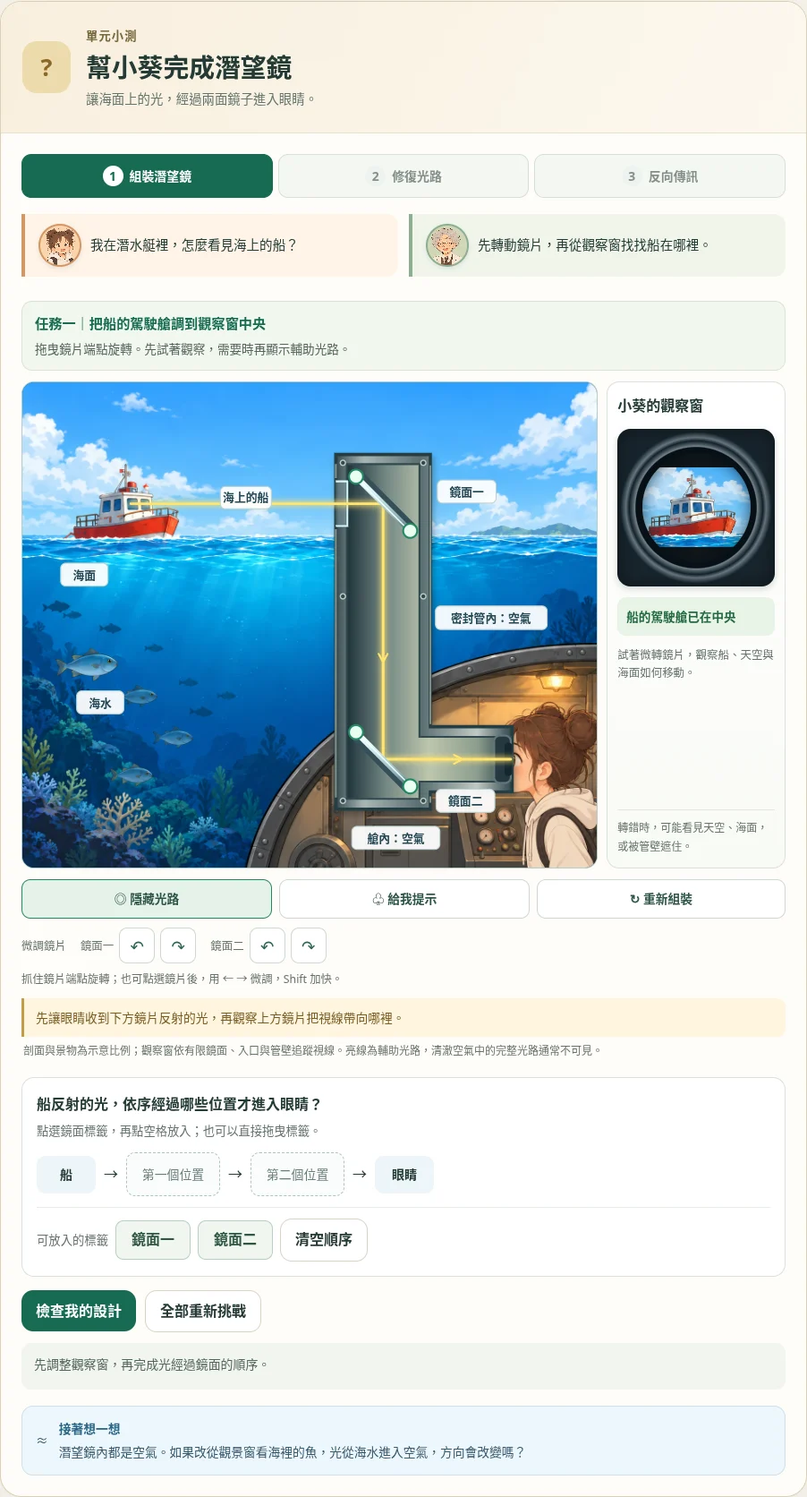
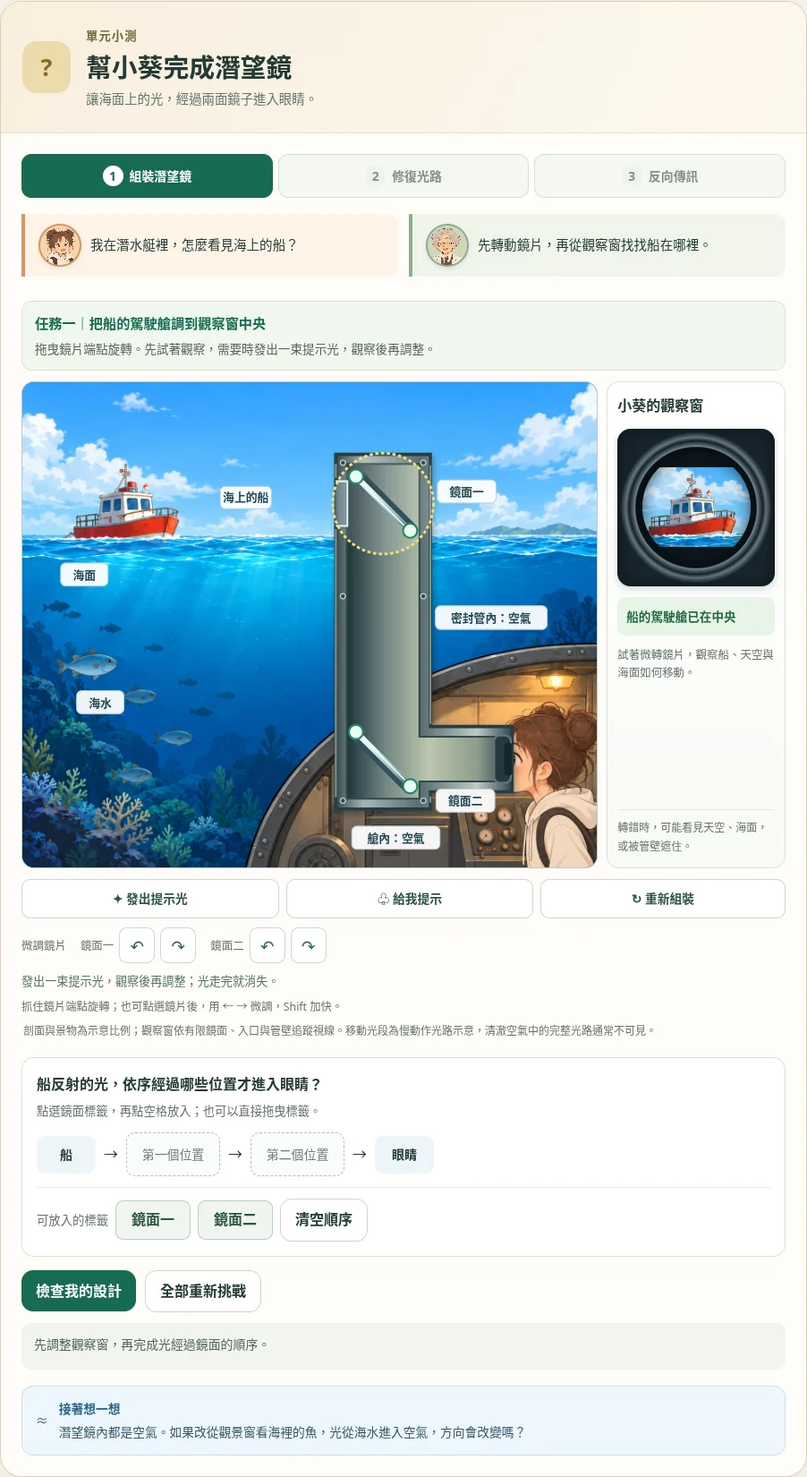
Replace continuous periscope hints with a single moving light pulse

diff --git a/units/1/parts/1.2/assets/periscope.js b/units/1/parts/1.2/assets/periscope.js
@@ -1,12 +1,16 @@
 import {OPTICS, mirror, viewRay, exteriorSample, observe, traceRay, returnSignal} from './periscope-optics.mjs';
+import {pathLength,pulseSegment} from './periscope-pulse.mjs';
 
 const root=document.querySelector('#unit-quiz');
 if(root) {
   const $=s=>root.querySelector(s), $$=s=>[...root.querySelectorAll(s)];
   const svg=$('#periscope-scene'), canvas=$('#periscope-view'), ctx=canvas.getContext('2d',{alpha:false});
   const groups=[$('#periscope-mirror-0'),$('#periscope-mirror-1')];
-  const state={stage:0,angles:[38,51],done:[false,false,false],order:[null,null],chip:null,diagnosis:null,prediction:null,path:false,hint:0,signal:false,verified:false,saved:[45,45]};
+  const state={stage:0,angles:[38,51],done:[false,false,false],order:[null,null],chip:null,diagnosis:null,prediction:null,hint:0,signal:false,verified:false,saved:[45,45]};
   let scenePixels=null, lastViewKey='', pending=0, dragging=null;
+  const reducedMotion=matchMedia('(prefers-reduced-motion: reduce)');
+  let pulse=null,pulseFrame=0,pulseEndTimer=0,pulseUnlockTimer=0,nextPulseAt=0,pulseCount=0;
+  const TRAVEL_MS=1400,HOLD_MS=300,FADE_MS=250,REST_MS=1050;
   const sceneImage=new Image();
   sceneImage.src=new URL('periscope/submarine-scene.webp?v=2',import.meta.url).href;
   sceneImage.onload=()=>{
@@ -52,7 +56,7 @@ if(root) {
       g.setAttribute('aria-valuenow',state.angles[i].toFixed(1));g.setAttribute('aria-valuetext',`鏡面方向 ${state.angles[i].toFixed(1)} 度，可用方向鍵微調`);
       g.setAttribute('aria-disabled',String(state.stage===2));g.setAttribute('tabindex',state.stage===2?'-1':'0');
     });
-    const ray=forwardRay(), marker=$('#periscope-block-marker');
+    const marker=$('#periscope-block-marker');
     marker.hidden=true;marker.setAttribute('hidden','');
     $('#periscope-normal').replaceChildren();
     $('#periscope-signal-source').toggleAttribute('hidden',state.stage!==2);
@@ -63,19 +67,71 @@ if(root) {
       else $('#periscope-light').replaceChildren();
     } else {
       $('#periscope-recorded').replaceChildren();
-      if(state.path) {
-        drawPath($('#periscope-light'),ray.points,'#ffe471');
-        if(ray.kind==='blocked') {marker.removeAttribute('hidden');marker.hidden=false;marker.setAttribute('transform',`translate(${point(ray.points.at(-1))})`);}
-      } else $('#periscope-light').replaceChildren();
-      if(state.hint>=2) {
-        const hit=ray.hits.at(-1);
-        if(hit) {
-          const n=document.createElementNS('http://www.w3.org/2000/svg','path'),p=hit.point,v=hit.normal;
-          n.setAttribute('d',`M${p[0]-v[0]*65},${p[1]-v[1]*65}L${p[0]+v[0]*65},${p[1]+v[1]*65}`);n.setAttribute('stroke','#eafff9');n.setAttribute('stroke-width','3');n.setAttribute('stroke-dasharray','8 6');$('#periscope-normal').append(n);
-        }
+      if(pulse)drawPulse();
+      else $('#periscope-light').replaceChildren();
+    }
+  }
+  function updatePulseControls() {
+    const busy=Boolean(pulse),waiting=performance.now()<nextPulseAt;
+    root.dataset.pulseStatus=busy?'running':waiting?'cooldown':'idle';
+    const button=$('#periscope-pulse');
+    button.hidden=state.stage===2;button.disabled=busy||waiting;
+    button.textContent=busy?'✦ 提示光行進中':waiting?'✦ 稍後可再試':'✦ 發出提示光';
+    $('#periscope-hint').disabled=state.stage!==2&&(busy||waiting);
+    $('#periscope-pulse-note').hidden=state.stage===2;
+    $('#periscope-pulse-note').textContent=busy?'這束光只走一次，看看它在哪裡轉彎或被擋住。':waiting?'提示光已結束。先調整鏡片，再試一次。':'發出一束提示光，觀察後再調整；光走完就消失。';
+  }
+  function cancelPulse(reset=false) {
+    cancelAnimationFrame(pulseFrame);clearTimeout(pulseEndTimer);pulse=null;
+    if(reset){clearTimeout(pulseUnlockTimer);nextPulseAt=0;}
+    if(state.stage!==2 || reset){
+      const light=$('#periscope-light');light.replaceChildren();light.style.opacity='1';delete light.dataset.progress;
+      $('#periscope-normal').replaceChildren();$('#periscope-block-marker').setAttribute('hidden','');
+    }
+    updatePulseControls();
+  }
+  function drawPulse() {
+    if(!pulse || state.stage===2)return;
+    const {ray,progress,opacity,showNormal}=pulse,light=$('#periscope-light');
+    const points=pulseSegment(ray.points,progress);
+    drawPath(light,points,'#ffe471');light.style.opacity=String(opacity);light.dataset.progress=String(progress);
+    const dot=document.createElementNS('http://www.w3.org/2000/svg','circle');
+    dot.setAttribute('cx',points.at(-1)[0]);dot.setAttribute('cy',points.at(-1)[1]);dot.setAttribute('r','5');dot.setAttribute('fill','#fff6c7');light.append(dot);
+    const marker=$('#periscope-block-marker');
+    marker.setAttribute('hidden','');
+    if(progress===1 && ray.kind==='blocked') {marker.removeAttribute('hidden');marker.style.opacity=String(opacity);marker.setAttribute('transform',`translate(${point(ray.points.at(-1))})`);}
+    $('#periscope-normal').replaceChildren();
+    const hit=ray.hits.at(-1);
+    if(showNormal && hit) {
+      const lastHitDistance=pathLength(ray.points.slice(0,ray.points.findIndex(p=>Math.hypot(p[0]-hit.point[0],p[1]-hit.point[1])<1e-5)+1));
+      if(progress*pathLength(ray.points)>=lastHitDistance) {
+        const n=document.createElementNS('http://www.w3.org/2000/svg','path'),p=hit.point,v=hit.normal;
+        n.setAttribute('d',`M${p[0]-v[0]*65},${p[1]-v[1]*65}L${p[0]+v[0]*65},${p[1]+v[1]*65}`);n.setAttribute('stroke','#eafff9');n.setAttribute('stroke-width','3');n.setAttribute('stroke-dasharray','8 6');n.setAttribute('opacity',opacity);$('#periscope-normal').append(n);
       }
     }
   }
+  function emitPulse() {
+    const now=performance.now();
+    if(state.stage===2 || pulse || dragging || document.hidden || now<nextPulseAt)return;
+    const duration=reducedMotion.matches?700:TRAVEL_MS+HOLD_MS+FADE_MS;
+    const shot={ray:forwardRay(),progress:reducedMotion.matches?1:0,opacity:1,showNormal:state.hint>=2};
+    pulse=shot;nextPulseAt=now+duration+REST_MS;root.dataset.pulseId=String(++pulseCount);
+    render();
+    const animate=time=>{
+      if(pulse!==shot)return;
+      const elapsed=Math.max(0,time-now);
+      shot.progress=Math.min(1,elapsed/TRAVEL_MS);
+      shot.opacity=Math.max(0,1-Math.max(0,elapsed-TRAVEL_MS-HOLD_MS)/FADE_MS);
+      drawPulse();
+      if(elapsed<duration)pulseFrame=requestAnimationFrame(animate);
+    };
+    if(!reducedMotion.matches)pulseFrame=requestAnimationFrame(animate);
+    pulseEndTimer=setTimeout(()=>{if(pulse===shot)cancelPulse();},duration);
+    pulseUnlockTimer=setTimeout(updatePulseControls,duration+REST_MS);
+  }
+  document.addEventListener('visibilitychange',()=>{if(document.hidden)cancelPulse();else updatePulseControls();});
+  reducedMotion.addEventListener('change',()=>{if(pulse)cancelPulse();});
+  window.addEventListener('pagehide',()=>cancelPulse(true));
   function renderView() {
     if(!scenePixels)return;
     const key=state.angles.join(',');if(key===lastViewKey)return;lastViewKey=key;
@@ -117,7 +173,7 @@ if(root) {
   function render() {
     pending=0;
     const info=observe(state.angles), messages={blocked:'視線被管壁或鏡背擋住',boat:info.target?'船的駕駛艙已在中央':'看見船了，再調整一下',sky:'目前主要看見天空',sea:'目前主要看見海面'};
-    root.dataset.phase=String(state.stage);root.dataset.angles=state.angles.join(',');root.dataset.view=info.kind;root.dataset.target=String(info.target);root.dataset.completed=state.done.join(',');root.dataset.path=String(state.path);root.dataset.signal=String(state.signal);
+    root.dataset.phase=String(state.stage);root.dataset.angles=state.angles.join(',');root.dataset.view=info.kind;root.dataset.target=String(info.target);root.dataset.completed=state.done.join(',');root.dataset.signal=String(state.signal);
     $('#periscope-view-state').textContent=messages[info.kind];$('#periscope-view-state').dataset.kind=info.kind;
     $('#periscope-view').setAttribute('aria-label',messages[info.kind]+'。'+(info.blocked?'部分視線受到遮擋。':''));
     $('#periscope-view-copy').textContent=state.stage===2?'鏡片固定，保留剛才看見的景象作對照。':info.kind==='blocked'?'鏡子未把外界的光送進眼睛。看看光在哪裡被擋住。':info.blocked/(info.clear+info.blocked)>.3?'邊緣的暗區是管壁或有限鏡片造成的遮擋。':'試著微轉鏡片，觀察船、天空與海面如何移動。';
@@ -128,7 +184,7 @@ if(root) {
     $$('.periscope-chip').forEach(b=>b.setAttribute('aria-pressed',String(Number(b.dataset.chip)===state.chip)));
     $$('[data-diagnosis]').forEach(b=>b.setAttribute('aria-pressed',String(Number(b.dataset.diagnosis)===state.diagnosis)));
     $$('[data-prediction]').forEach(b=>b.setAttribute('aria-pressed',String(b.dataset.prediction===state.prediction)));
-    $('#periscope-fine').hidden=state.stage===2;$('#periscope-toggle-path').hidden=state.stage===2;$('#periscope-toggle-path').setAttribute('aria-pressed',String(state.path));$('#periscope-toggle-path').textContent=state.path?'◎ 隱藏光路':'◎ 顯示光路';
+    $('#periscope-fine').hidden=state.stage===2;updatePulseControls();
     $('#periscope-signal').hidden=state.stage!==2;$('#periscope-signal').disabled=!state.prediction;$('#periscope-signal').setAttribute('aria-pressed',String(state.signal));$('#periscope-signal').textContent=state.signal?'關閉訊號光':'發送訊號光';
     $('#periscope-reset-stage').textContent=['↻ 重新組裝','↻ 重現故障','↻ 重做預測'][state.stage];
     $('#periscope-check').textContent=['檢查我的設計','檢查修復結果','確認我的預測'][state.stage];
@@ -149,14 +205,14 @@ if(root) {
     if(state.stage===2)return;
     const n=Math.round(Math.max(OPTICS.minAngle,Math.min(OPTICS.maxAngle,value))*10)/10;
     if(n===state.angles[i])return;
-    invalidate();state.angles[i]=n;state.verified=false;schedule();
+    cancelPulse();invalidate();state.angles[i]=n;state.verified=false;schedule();
   }
   function svgPoint(e) {
     const p=new DOMPoint(e.clientX,e.clientY).matrixTransform(svg.getScreenCTM().inverse());return [p.x,p.y];
   }
   groups.forEach((g,i)=>{
     g.addEventListener('pointerdown',e=>{
-      if(state.stage===2||e.button>0)return;e.preventDefault();
+      if(state.stage===2||e.button>0)return;e.preventDefault();cancelPulse();
       const p=svgPoint(e),c=i===0?OPTICS.upper:OPTICS.lower;
       const initial=Math.atan2(p[1]-c[1],p[0]-c[0])*180/Math.PI;
       dragging={i,id:e.pointerId,start:initial,angle:state.angles[i]};g.setPointerCapture(e.pointerId);g.focus({preventScroll:true});
@@ -190,21 +246,21 @@ if(root) {
   $('#periscope-clear-order').addEventListener('click',()=>{invalidate();state.order=[null,null];state.chip=null;render();});
   $$('[data-diagnosis]').forEach(b=>b.addEventListener('click',()=>{invalidate();state.diagnosis=Number(b.dataset.diagnosis);render();}));
   $$('[data-prediction]').forEach(b=>b.addEventListener('click',()=>{invalidate();state.prediction=b.dataset.prediction;state.verified=false;state.signal=false;render();}));
-  $('#periscope-toggle-path').addEventListener('click',()=>{state.path=!state.path;render();});
+  $('#periscope-pulse').addEventListener('click',emitPulse);
   const hints=[
     ['先讓眼睛收到下方鏡片反射的光，再觀察上方鏡片把視線帶向哪裡。','看天空或海面時，外界光路仍接通；全暗則先檢查視線有沒有撞上管壁。','沿法線比較入射與反射方向。黃色叉號是這條示例光線被擋住的位置。'],
     ['故障前，下方鏡片已把光送進眼睛。先比較光路從哪一處開始偏離。','法線與鏡面垂直。每一處反射都要讓入射角等於反射角。','只剩天空不代表光消失了，而是看向了另一個方向。'],
     ['將傳播方向反過來，入射線與反射線的角色會交換。','鏡子固定時，同一反射點兩側的角度仍相等。','藍光由原本眼睛的位置出發；比較它和黃色原路線是否完整重合。']
   ];
-  $('#periscope-hint').addEventListener('click',()=>{state.hint=Math.min(3,state.hint+1);$('#periscope-hint-copy').hidden=false;$('#periscope-hint-copy').textContent=hints[state.stage][state.hint-1];if(state.stage!==2)state.path=true;render();});
+  $('#periscope-hint').addEventListener('click',()=>{state.hint=Math.min(3,state.hint+1);$('#periscope-hint-copy').hidden=false;$('#periscope-hint-copy').textContent=hints[state.stage][state.hint-1];if(state.stage!==2)emitPulse();render();});
   $('#periscope-signal').addEventListener('click',()=>{if(!state.prediction)return;state.signal=!state.signal;if(state.signal)state.verified=true;render();});
   function enterStage(stage,reset=false) {
     if(stage>0&&!state.done[stage-1])return;
-    state.stage=stage;state.path=false;state.hint=0;state.signal=false;state.verified=false;
+    cancelPulse(true);state.stage=stage;state.hint=0;state.signal=false;state.verified=false;
     $('#periscope-hint-copy').hidden=true;
     const content=[
-      ['我在潛水艇裡，怎麼看見海上的船？','先轉動鏡片，再從觀察窗找找船在哪裡。','任務一｜把船的駕駛艙調到觀察窗中央','拖曳鏡片端點旋轉。先試著觀察，需要時再顯示輔助光路。'],
-      ['剛才明明看見船，怎麼現在偏向天空了？','先判斷哪片鏡子被轉動，再把景象修回來。','任務二｜找出故障，讓船重新回到中央','先選擇你的判斷，再拖動鏡片修復；需要時可顯示光路。'],
+      ['我在潛水艇裡，怎麼看見海上的船？','先轉動鏡片，再從觀察窗找找船在哪裡。','任務一｜把船的駕駛艙調到觀察窗中央','拖曳鏡片端點旋轉。先試著觀察，需要時發出一束提示光，觀察後再調整。'],
+      ['剛才明明看見船，怎麼現在偏向天空了？','先判斷哪片鏡子被轉動，再把景象修回來。','任務二｜找出故障，讓船重新回到中央','先選擇你的判斷，再拖動鏡片修復；需要時可發出一束提示光。'],
       ['我能沿同一條路，把訊號送回船上嗎？','鏡片保持不動，先預測，再發送藍色訊號光。','任務三｜讓訊號沿原光路返回','暫以訊號光源替換眼睛；黃色是原入眼光線，藍光從同一位置反向發出。']
     ][stage];
     ['#periscope-student','#periscope-grandpa','#periscope-task-title','#periscope-task-copy'].forEach((id,i)=>$(id).textContent=content[i]);

diff --git a/units/1/parts/1.2/index.html b/units/1/parts/1.2/index.html
@@ -103,7 +103,7 @@
   </style>
   <link rel="stylesheet" href="assets/curved-mirrors.css?v=1">
   <link rel="stylesheet" href="assets/reversible-light.css?v=3">
-  <link rel="stylesheet" href="assets/periscope.css?v=1">
+  <link rel="stylesheet" href="assets/periscope.css?v=2">
 </head>
 <body>
   <header class="shell masthead">
@@ -402,7 +402,7 @@
                 <div class="dialogue dialogue--xiaokui"><span class="speaker"><span class="visually-hidden">小葵</span></span><p id="periscope-student">我在潛水艇裡，怎麼看見海上的船？</p></div>
                 <div class="dialogue"><span class="speaker"><span class="visually-hidden">阿公</span></span><p id="periscope-grandpa">先轉動鏡片，再從觀察窗找找船在哪裡。</p></div>
               </div>
-              <div class="periscope-task"><div><strong id="periscope-task-title">任務一｜把船的駕駛艙調到觀察窗中央</strong><p id="periscope-task-copy">拖曳鏡片端點旋轉。先試著觀察，需要時再顯示輔助光路。</p></div></div>
+              <div class="periscope-task"><div><strong id="periscope-task-title">任務一｜把船的駕駛艙調到觀察窗中央</strong><p id="periscope-task-copy">拖曳鏡片端點旋轉。先試著觀察，需要時發出一束提示光，觀察後再調整。</p></div></div>
               <div class="periscope-workspace">
                 <div class="periscope-cutaway">
                   <svg id="periscope-scene" viewBox="0 0 900 760" role="group" aria-labelledby="periscope-scene-title periscope-scene-desc">
@@ -433,11 +433,12 @@
                 </div>
                 <aside class="periscope-view" aria-label="從潛望鏡看到的景象"><h3>小葵的觀察窗</h3><div class="periscope-lens-frame"><canvas id="periscope-view" width="240" height="240" role="img" aria-label="觀察窗載入中"></canvas></div><div id="periscope-view-state" class="periscope-view-state" role="status">正在準備觀察窗…</div><p id="periscope-view-copy">景象隨鏡片轉動；管壁擋住的區域會變暗。</p><div class="periscope-view-meter">轉錯時，可能看見天空、海面，或被管壁遮住。</div></aside>
               </div>
-              <div class="periscope-controls"><button type="button" id="periscope-toggle-path" aria-pressed="false">◎ 顯示光路</button><button type="button" id="periscope-hint">♧ 給我提示</button><button type="button" id="periscope-reset-stage">↻ 重新組裝</button><button type="button" id="periscope-signal" class="periscope-signal" aria-pressed="false" hidden disabled>發送訊號光</button></div>
+              <div class="periscope-controls"><button type="button" id="periscope-pulse" aria-describedby="periscope-pulse-note">✦ 發出提示光</button><button type="button" id="periscope-hint">♧ 給我提示</button><button type="button" id="periscope-reset-stage">↻ 重新組裝</button><button type="button" id="periscope-signal" class="periscope-signal" aria-pressed="false" hidden disabled>發送訊號光</button></div>
               <div class="periscope-fine" id="periscope-fine" role="group" aria-label="鏡片精細調整"><span>微調鏡片</span><div><span>鏡面一</span><button type="button" data-fine="0,-0.5" aria-label="鏡面一逆時針微調半度">↶</button><button type="button" data-fine="0,0.5" aria-label="鏡面一順時針微調半度">↷</button></div><div><span>鏡面二</span><button type="button" data-fine="1,-0.5" aria-label="鏡面二逆時針微調半度">↶</button><button type="button" data-fine="1,0.5" aria-label="鏡面二順時針微調半度">↷</button></div></div>
+              <p class="periscope-pulse-note" id="periscope-pulse-note" role="status">發出一束提示光，觀察後再調整；光走完就消失。</p>
               <p class="periscope-keyboard" id="periscope-drag-help">抓住鏡片端點旋轉；也可點選鏡片後，用 ← → 微調，Shift 加快。</p>
               <p class="periscope-hint" id="periscope-hint-copy" role="status" hidden></p>
-              <p class="periscope-model-note">剖面與景物為示意比例；觀察窗依有限鏡面、入口與管壁追蹤視線。亮線為輔助光路，清澈空氣中的完整光路通常不可見。</p>
+              <p class="periscope-model-note">剖面與景物為示意比例；觀察窗依有限鏡面、入口與管壁追蹤視線。移動光段為慢動作光路示意，清澈空氣中的完整光路通常不可見。</p>
               <div class="periscope-question" id="periscope-question-0"><h3>船反射的光，依序經過哪些位置才進入眼睛？</h3><p>點選鏡面標籤，再點空格放入；也可以直接拖曳標籤。</p><div class="periscope-order"><span class="path-end">船</span><span aria-hidden="true">→</span><button type="button" class="periscope-slot" data-slot="0" aria-label="第一個反射位置，尚未填入">第一個位置</button><span aria-hidden="true">→</span><button type="button" class="periscope-slot" data-slot="1" aria-label="第二個反射位置，尚未填入">第二個位置</button><span aria-hidden="true">→</span><span class="path-end">眼睛</span></div><div class="periscope-chips"><small>可放入的標籤</small><button type="button" draggable="true" class="periscope-chip" data-chip="0" aria-pressed="false">鏡面一</button><button type="button" draggable="true" class="periscope-chip" data-chip="1" aria-pressed="false">鏡面二</button><button type="button" id="periscope-clear-order" class="secondary">清空順序</button></div></div>
               <div class="periscope-question" id="periscope-question-1" hidden><h3>哪一片鏡子被轉動了？</h3><p>比較原本的路線，先作判斷，再試著修復。</p><div class="periscope-choice-row"><button class="periscope-answer" type="button" data-diagnosis="0" aria-pressed="false">鏡面一</button><button class="periscope-answer" type="button" data-diagnosis="1" aria-pressed="false">鏡面二</button></div></div>
               <div class="periscope-question" id="periscope-question-2" hidden><h3>鏡子不動，從眼睛的位置沿原光路反向發出訊號，會怎麼走？</h3><p>先預測，再按「發送訊號光」比較藍光與原本的路線。</p><div class="periscope-answer-list"><button class="periscope-answer" type="button" data-prediction="same" aria-pressed="false">沿完整的原路徑返回，從上方入口照向船。</button><button class="periscope-answer" type="button" data-prediction="inside" aria-pressed="false">只有管內的路徑重合，離開入口後方向會不同。</button><button class="periscope-answer" type="button" data-prediction="turn" aria-pressed="false">兩次反射後會換一條路，需要再調鏡子才能照向船。</button></div></div>
@@ -474,6 +475,6 @@
   <script type="module" src="assets/reflection-3d.js?v=46"></script>
   <script type="module" src="assets/laser-reflection.js?v=36"></script>
   <script type="module" src="assets/reversible-light.js?v=3"></script>
-  <script type="module" src="assets/periscope.js?v=3"></script>
+  <script type="module" src="assets/periscope.js?v=4"></script>
 </body>
 </html>

diff --git a/units/1/parts/1.2/assets/periscope.css b/units/1/parts/1.2/assets/periscope.css
@@ -18,3 +18,5 @@
 .periscope-steps button span{width:23px}
 .periscope-fine{display:flex;align-items:center;flex-wrap:wrap;gap:8px 16px;margin-top:10px;color:var(--muted);font-size:.78rem}.periscope-fine>div{display:flex;align-items:center;gap:6px}.periscope-fine button{display:grid;place-items:center;min-width:40px;min-height:40px;border:1px solid #cbd8d2;border-radius:9px;background:#fff;color:#2d6551;font-size:1.15rem}
 @media(max-width:600px){.periscope-order{display:grid;grid-template-columns:30px 10px minmax(0,1fr) 10px minmax(0,1fr) 10px 38px;gap:3px}.periscope-order .path-end{min-width:0;padding:8px 3px}.periscope-slot{min-width:0;width:100%;padding:6px 2px;font-size:.73rem}.periscope-fine{gap:7px 11px}.periscope-fine>span{flex-basis:100%}}
+
+.periscope-controls button:disabled{cursor:default;background:#f1f4ef;color:#7b8d83;border-color:#d9e1d9}.periscope-pulse-note{margin:9px 0 0;color:#557465;font-size:.82rem}.periscope-path circle{pointer-events:none}

diff --git a/docs/reviews/unit-1.2-periscope/review.md b/docs/reviews/unit-1.2-periscope/review.md
@@ -54,3 +54,18 @@
 以 `shared-assets/characters/dialogue-character-avatars.png` 及 `assets/mirror/xiaokui-profile.webp` 作參考修正場景，移除馬尾與綠色背帶，保留側臉眼位及場景構圖。`approved-layout.webp` 保留為歷史版型參考，角色身分以正式人物素材為準。共用人物 README 補上小葵造型核對，避免未來以錯誤示意圖作角色來源。
 
 本輪潛望鏡檢查 16 項全部通過，另以實際桌面、手機與反向任務截圖人工核對人物造型、白色帽兜、雙髮髻及觀察口對位；紀錄保存於 `character-fix-tests.log`，不將像素光路測試描述為人物辨識測試。
+
+## 一次性提示光（2026-10-28）
+
+使用者指出持續顯示光路會讓學生沿著答案調鏡片，要求改為發出一次光束、觀察後再調整。本次將前兩關的持續開關移除，改為原生「發出提示光」按鈕。
+
+- 按下當刻以現有幾何追跡保存這次光路，僅顯示最長 110 示意單位的短光段，沿實際折線跨過鏡面前進；沒有完整拖尾。光段與遮擋標記到終點後短暫停留並淡出，總時間約 1.95 秒。這是慢動作示意，非實際光速。
+- 發射中及結束後 1.05 秒內暫停再次觸發；連點不疊加、不延長、不重新起算。一次結束後可再按，方便依證據反覆修正。
+- 滑鼠／觸控開始拖曳，或以鍵盤／微調鍵改角度，立刻取消光段；既有光不會隨新角度更新成常駐導引。
+- 「給我提示」同樣只發出一次光段，法線與叉號不會留在畫面。文字提示可以保留。
+- 重設、換關、隱藏頁面及離頁取消舊動畫與計時器；舊回呼不會清掉下一關的藍光。第三關鏡面固定，維持光路可逆的兩色比較。
+- 減少動態偏好下，改為 0.7 秒靜態末端光段，不移動畫面，也不留下完整光路。
+
+實際截圖見 `pulse-moving.webp` 與 `pulse-ended.webp`，另更新桌面及手機整卡畫面。測試紀錄保存於 `pulse-tests.log`。
+
+本輪循序執行共 **44 項通過、0 失敗**（含外層項目）：潛望鏡 21 項、第三至六區既有回歸 23 項。新增的短光段測試、實際動畫與消失、連點、拖曳／微調取消、提示法線收起、減少動態、重設及換關計時器、手機觸控及離頁皆通過；同時再次檢視雙丸子頭與白色帽兜，避免改動提示時遺失已修正人物。

diff --git a/units/1/parts/1.2/storyline.md b/units/1/parts/1.2/storyline.md
@@ -113,3 +113,9 @@
 入口位於水面之上，密封管內及艙內都是空氣。本模型只討論平面鏡反射，不畫光穿過金屬、海水或眼睛主動發光；反向任務明示在原眼睛位置另放訊號光源。下一單元以觀景窗看魚時光從海水進空氣作為提問，不在本小測先教折射。
 
 沿用外側學習路線、米色小測標頭、小葵／阿公共用頭像、橘綠對話、剖面與觀察窗並列及綠色操作按鈕。手機上下排列，提供等效半度微調鍵、方向鍵及點選式標籤填入；不使用角度滑桿、不自動吸附正解，也不顯示每片鏡子「已對準」。核可圖、實際畫面與科學及操作紀錄見 [潛望鏡交付檢查](../../../../docs/reviews/unit-1.2-periscope/review.md)。
+
+### 小測提示改為一次性光束（2026-10-28）
+
+使用者指出持續顯示光路會讓調整過於容易，要求一次發出一束光，觀察後再修正。組裝與修復關卡的「顯示／隱藏光路」改為「發出提示光」：依按下當刻的鏡面設定取樣光路，只顯示一小段往前行進的光束，不留下整條拖尾；到終點或遮擋處短暫停留後消失。每次約兩秒，結束後有約一秒空檔，連點不疊加或延長。
+
+滑鼠／觸控開始拖動、鍵盤或半度微調會立即收起提示光，讓學生先觀察、再調整。「給我提示」也只觸發同樣的一次性光束，輔助法線及遮擋標記隨光收起。重設、換關、離頁與隱藏頁面皆取消動畫；減少動態模式只短暫呈現末端光段。第三關固定鏡面後的正反兩色比較保留，用來驗證光路可逆。

diff --git a/tests/README.md b/tests/README.md
@@ -125,6 +125,8 @@ CHROMIUM_PATH=/usr/bin/chromium node --test --test-concurrency=1 tests/unit-1.2-
 
 與第三至六區循序執行回歸，避免多個軟體 WebGL 瀏覽器競用。實體點擊前取消平滑捲動並確認座標穩定，不以強制點擊略過命中問題。觀察窗取樣核對使用相同 Canvas CPU 色彩取樣方式，以免 GPU／CPU 縮圖插值差異被誤判為光路偏差。整卡截圖暫隱藏外側 sticky 導覽，避免離開視窗的部分在長截圖中混入懸浮導覽；正式頁面不隱藏導覽。截圖與人工對照保留在 `docs/reviews/unit-1.2-periscope/`。
 
+潛望鏡提示光已改為一次性光束。另檢查短光段沿真實折線移動、不留下全線、快速連點不疊加或延長、自動消失及空檔、拖曳／微調立即取消、「給我提示」與法線／遮擋標記一併收起、重設／換關取消舊計時器、第三關比較線不被過期動畫清除，以及減少動態與手機實際觸控。光段純函式測試與瀏覽器實際 SVG 長度／路徑、時間及像素畫面分別核對。
+
 ## 5.1 統一為 3.2 頁面版型
 
 同時執行 `unit-5.1.test.cjs`、`unit-5.1-water-lab.test.cjs`、`unit-5.1-dual-scale.test.cjs`，共 30 項檢查。響應式面板依實際內容欄寬判定橫向／直向配置。`TEMPERATURE_LESSON_URL`、`WATER_LAB_URL`、`DUAL_SCALE_URL` 可分別指定整頁、第二區與第三區待測網址，未設定時仍使用自動啟停的本機伺服器。文字／圖像／控制項保留核對與版型截圖另見 `docs/reviews/unit-5.1-layout/`。

diff --git a/units/1/parts/1.2/assets/README.md b/units/1/parts/1.2/assets/README.md
@@ -38,3 +38,9 @@
 ### 潛望鏡人物修正（2026-10-28）
 
 使用者指出原情境人物並非小葵。原素材誤用馬尾、襯衫與綠色背帶；已以共用頭像及既有 `mirror/xiaokui-profile.webp` 作參考，改為棕髮雙丸子頭、白色連帽上衣及深色背包帶。保持原眼睛位置與景物構圖，重新確認觀察口對位。場景與觀察窗皆引用同一修正版，圖片引用加上 `?v=2`，頁面模組更新版本以避免瀏覽器沿用舊人物。
+
+### 一次性提示光
+
+- `periscope-pulse.mjs`：沿真實追跡折線取出最多 110 示意單位長的移動光段，保留跨鏡面的折點，不畫整條軌跡。
+- `periscope.js`：發射時固定這次光路，1.4 秒行進、0.3 秒末端停留、0.25 秒淡出，之後 1.05 秒空檔。動畫與文字提示共用觸發限制；調整、重設、換關及離頁會取消舊動畫與計時器。減少動態模式以 0.7 秒靜態末端光段代替移動。
+- 圖片與人物維持前次小葵修正版；新按鈕不再使用開關式 `aria-pressed`，顯示狀態以簡短文字提示。
